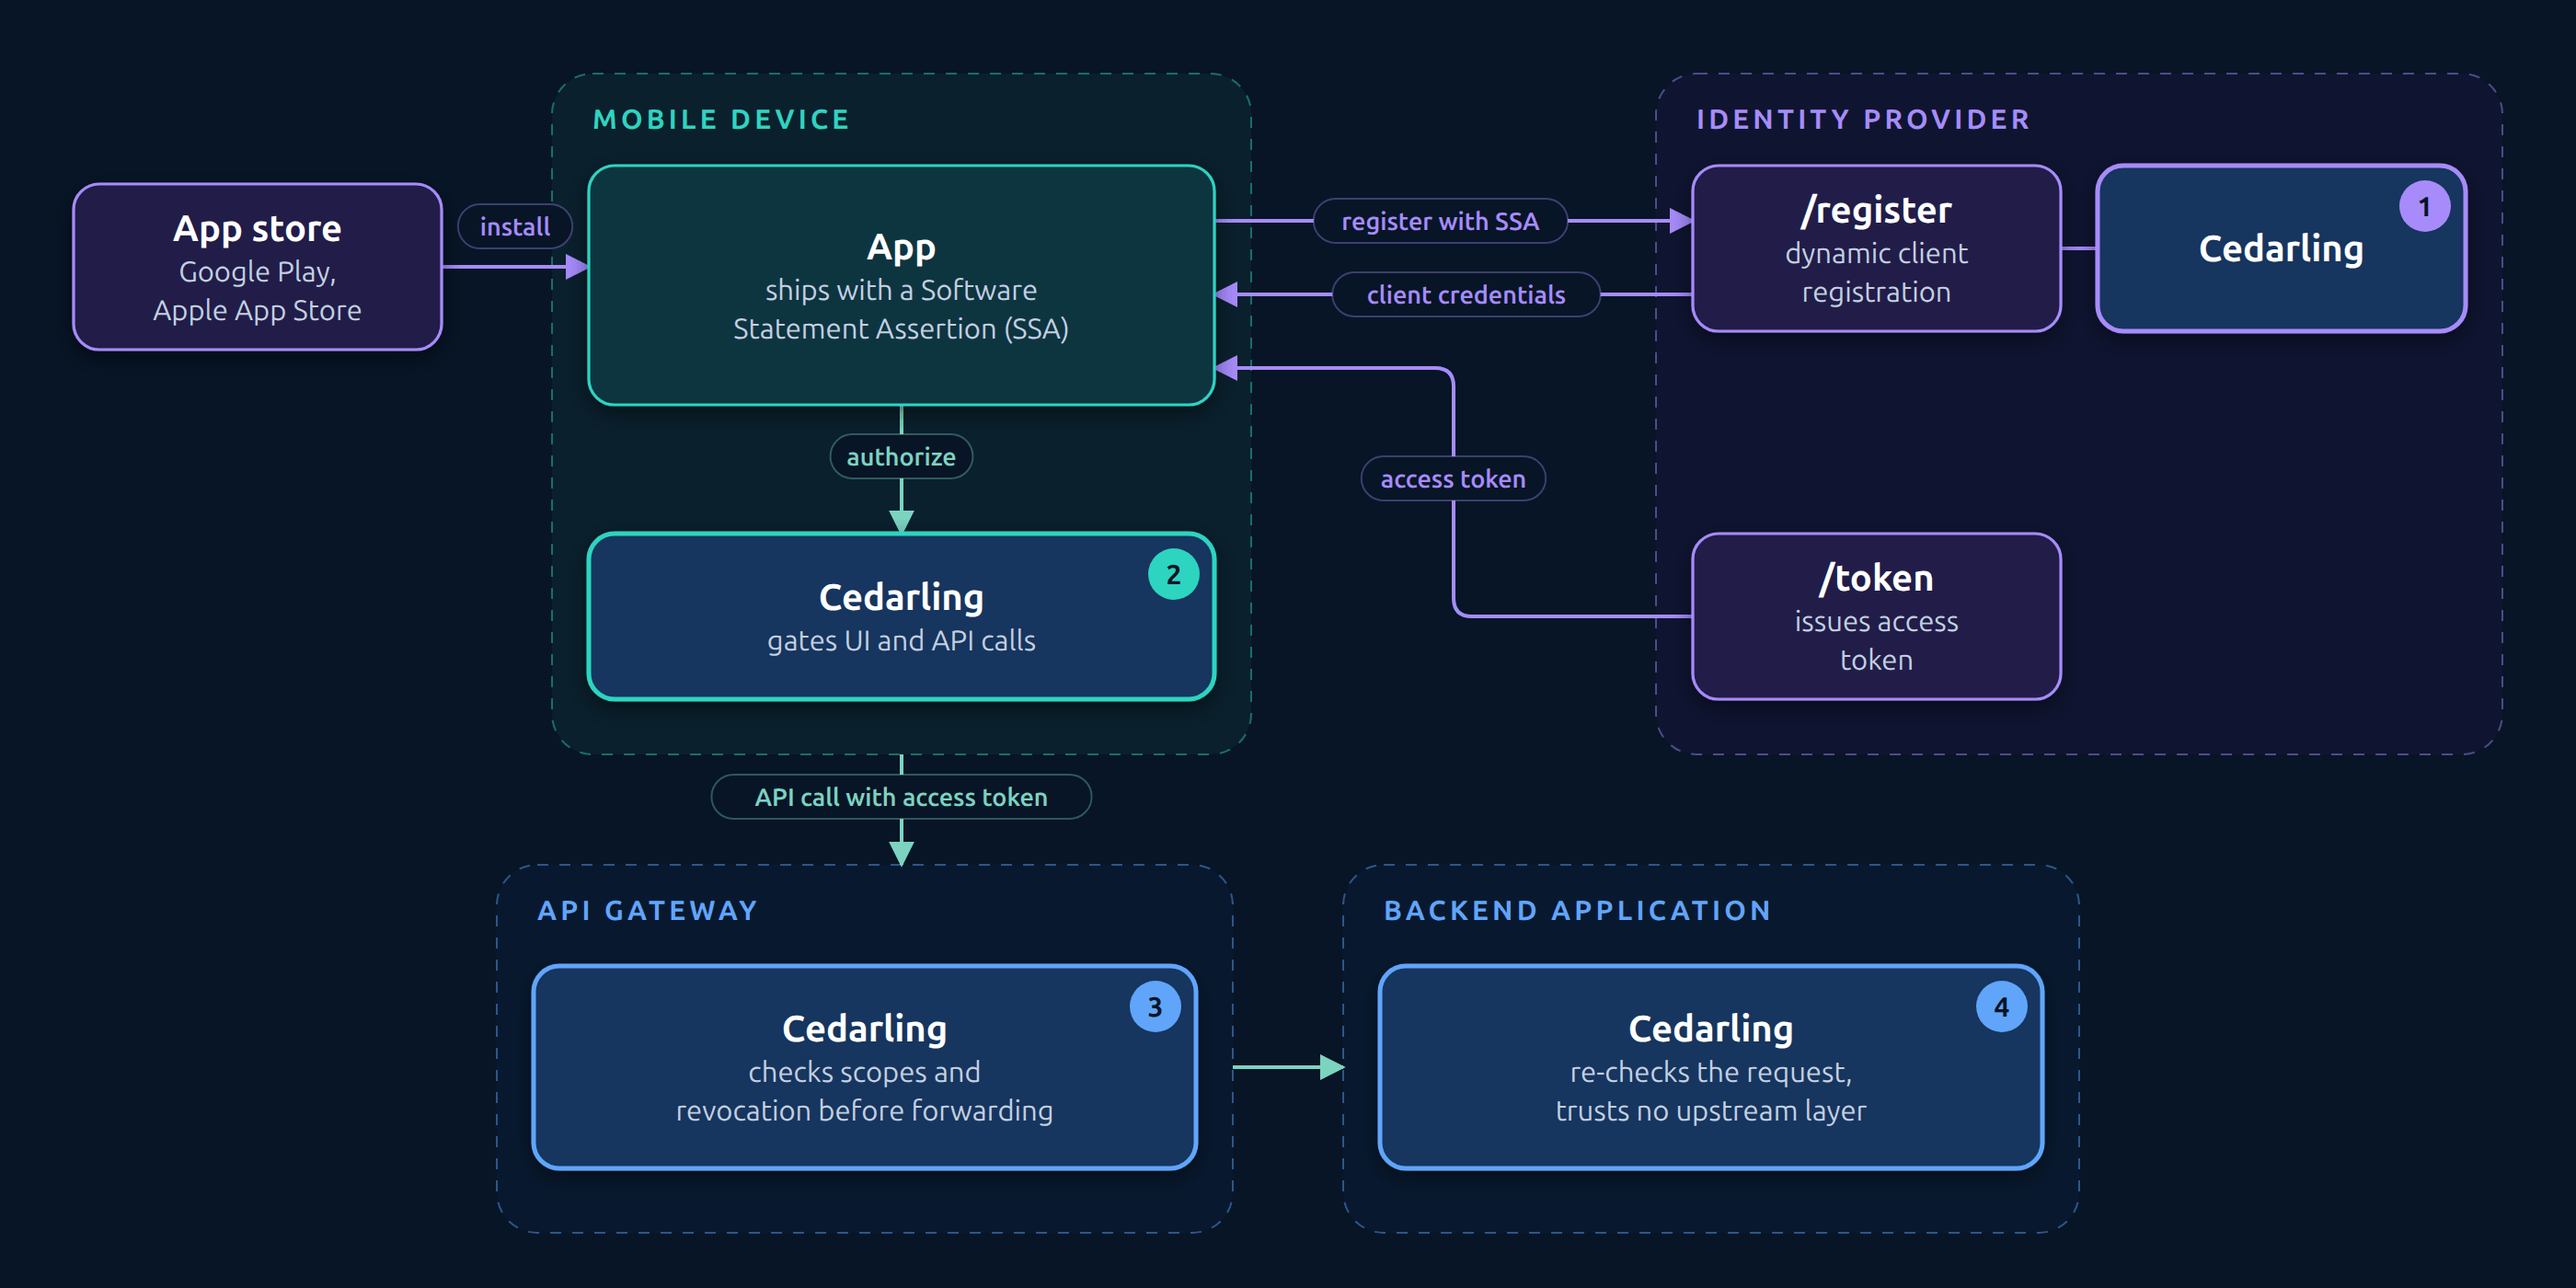
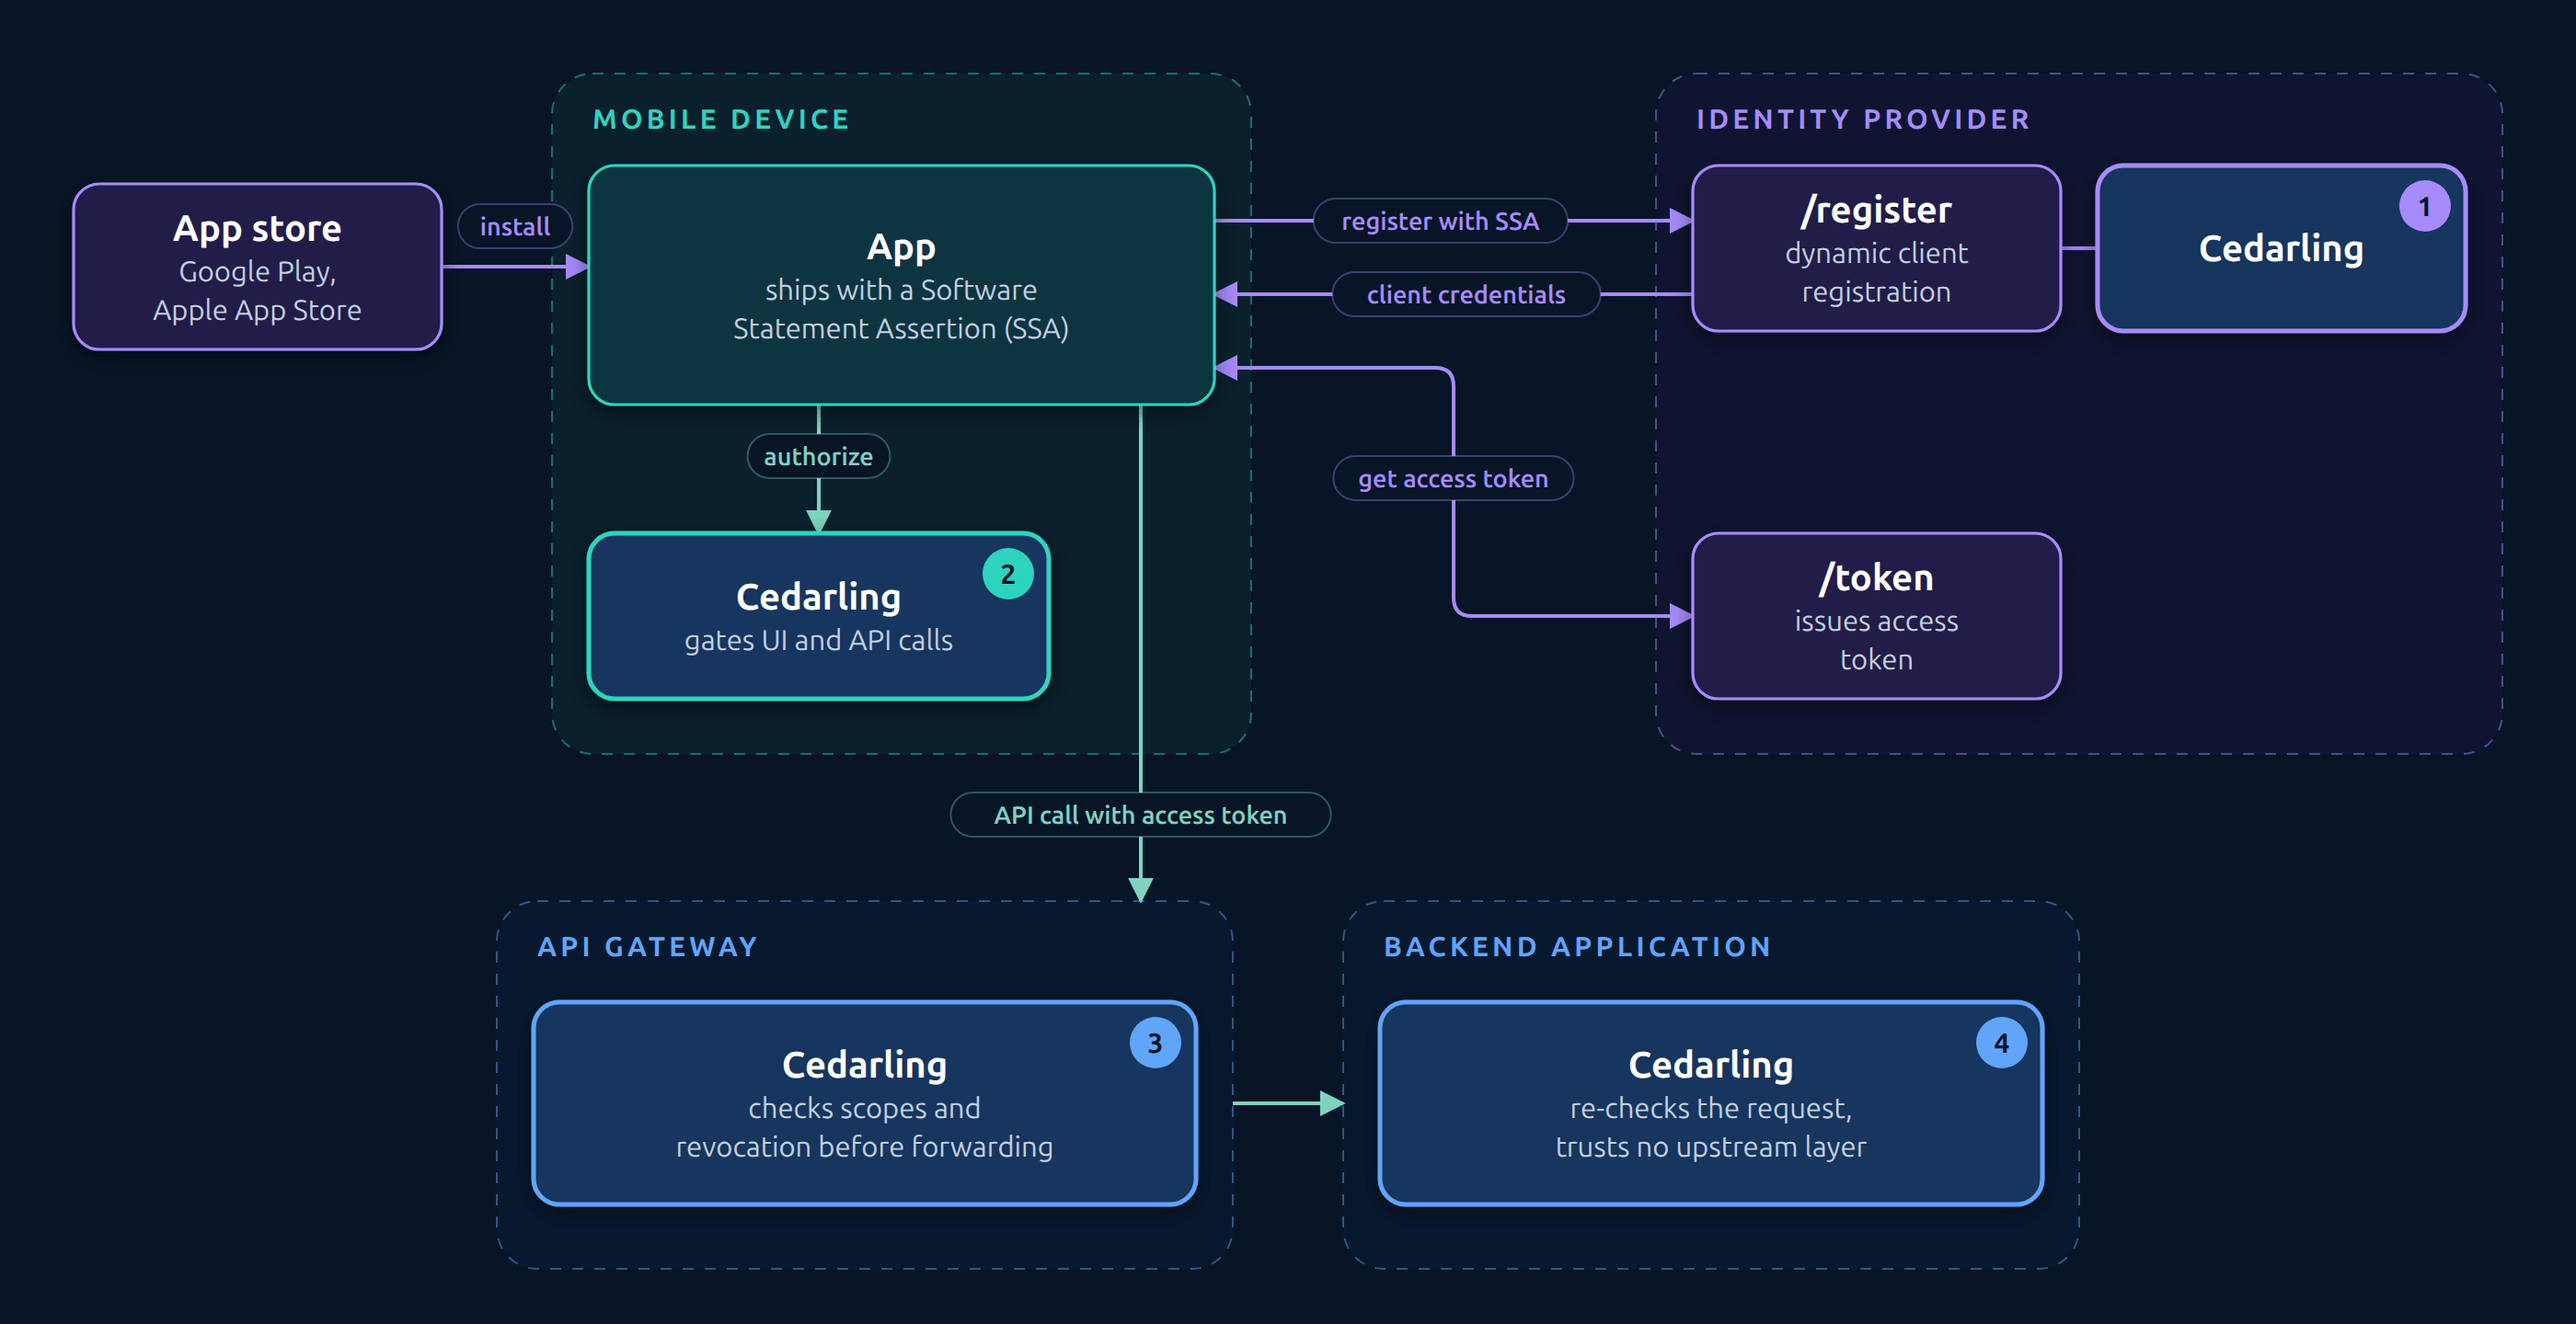
docs(jans-cedarling): route the API call from the app in Zero Trust diagram
The API call arrow started under the device Cedarling, as if Cedarling
made the call, and the app received an access token without asking for
one. Send the API call from the app to the API gateway, which consults
its own Cedarling, and make the /token edge two-way ("get access
token").

diff --git a/jans-cedarling/scripts/diagrams/topology.py b/jans-cedarling/scripts/diagrams/topology.py
@@ -5,12 +5,12 @@ The numbered badges match the numbered list under the diagram in the docs.
 
 DIAGRAM = {
     "output": "docs/assets/cedarling/cedarling-zero-trust-topology.png",
-    "size": (1400, 700),
+    "size": (1400, 720),
     "groups": [
         {"color": "teal", "label": "MOBILE DEVICE", "x": 300, "y": 40, "w": 380, "h": 370},
         {"color": "violet", "label": "IDENTITY PROVIDER", "x": 900, "y": 40, "w": 460, "h": 370},
-        {"color": "blue", "label": "API GATEWAY", "x": 270, "y": 470, "w": 400, "h": 200},
-        {"color": "blue", "label": "BACKEND APPLICATION", "x": 730, "y": 470, "w": 400,
+        {"color": "blue", "label": "API GATEWAY", "x": 270, "y": 490, "w": 400, "h": 200},
+        {"color": "blue", "label": "BACKEND APPLICATION", "x": 730, "y": 490, "w": 400,
          "h": 200},
     ],
     "nodes": {
@@ -19,7 +19,7 @@ DIAGRAM = {
 
         "app": {"color": "teal", "box": (320, 90, 340, 130),
                 "title": "App", "desc": ["ships with a Software", "Statement Assertion (SSA)"]},
-        "device_pdp": {"color": "teal", "box": (320, 290, 340, 90), "emphasis": True,
+        "device_pdp": {"color": "teal", "box": (320, 290, 250, 90), "emphasis": True,
                        "badge": 2, "title": "Cedarling", "desc": ["gates UI and API calls"]},
 
         "register": {"color": "violet", "box": (920, 90, 200, 90),
@@ -29,10 +29,10 @@ DIAGRAM = {
         "token": {"color": "violet", "box": (920, 290, 200, 90),
                   "title": "/token", "desc": ["issues access", "token"]},
 
-        "gateway_pdp": {"color": "blue", "box": (290, 525, 360, 110), "emphasis": True,
+        "gateway_pdp": {"color": "blue", "box": (290, 545, 360, 110), "emphasis": True,
                         "badge": 3, "title": "Cedarling",
                         "desc": ["checks scopes and", "revocation before forwarding"]},
-        "backend_pdp": {"color": "blue", "box": (750, 525, 360, 110), "emphasis": True,
+        "backend_pdp": {"color": "blue", "box": (750, 545, 360, 110), "emphasis": True,
                         "badge": 4, "title": "Cedarling",
                         "desc": ["re-checks the request,", "trusts no upstream layer"]},
     },
@@ -45,10 +45,10 @@ DIAGRAM = {
          "color": "violet"},
         {"points": [(1140, 135), (1120, 135)], "arrow": False, "color": "violet"},
         {"points": [(920, 335), (790, 335), (790, 200), (660, 200)],
-         "label": "access token", "at": (790, 260), "color": "violet"},
-        {"points": [(490, 220), (490, 290)], "label": "authorize", "at": (490, 255)},
-        {"points": [(490, 410), (490, 470)],
-         "label": "API call with access token", "at": (490, 440)},
-        {"points": [(670, 580), (730, 580)]},
+         "label": "get access token", "at": (790, 260), "color": "violet", "both": True},
+        {"points": [(445, 220), (445, 290)], "label": "authorize", "at": (445, 255)},
+        {"points": [(620, 220), (620, 410), (620, 490)],
+         "label": "API call with access token", "at": (620, 450)},
+        {"points": [(670, 600), (730, 600)]},
     ],
 }
